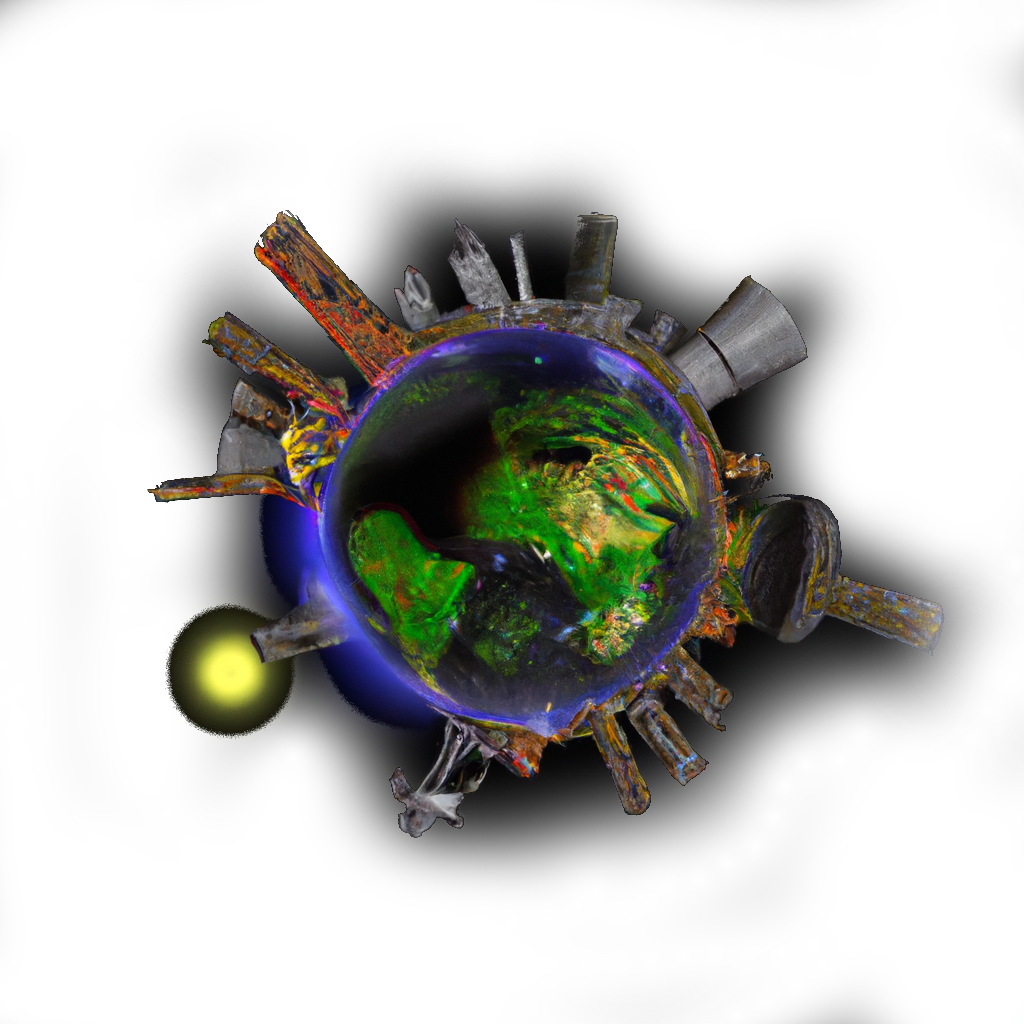
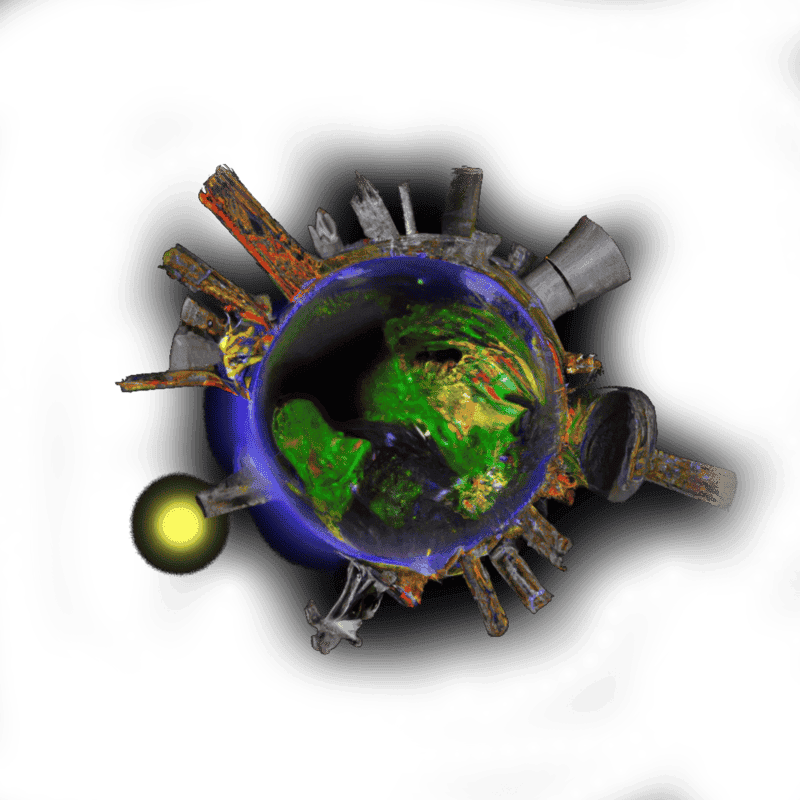
smaller images and loading indicator

diff --git a/planets/index.html b/planets/index.html
@@ -18,24 +18,42 @@
     .planets {
         height: 0%;
         position: absolute;
+        opacity: 0;
+    }
+
+    .loader {
+        border: 3px solid #333;
+        border-top: 3px solid lavender;
+        border-radius: 50%;
+        width: 50px;
+        height: 50px;
+        animation: spin 1s linear infinite;
+        position: absolute;
+    }
+
+    @keyframes spin {
+        0% { transform: rotate(0deg); }
+        100% { transform: rotate(360deg); }
     }
 
     @keyframes zoom {
         0% {
             transform: rotate(0deg);
+            opacity: 1;
         }
         60% {
-            opacity: 100%;
+            opacity: 1;
         }
         100% {
-            opacity: 0%;
+            opacity: 0;
             height: 300%;
             transform: rotate(50deg);
         }
     }
+
     a {
         color: lavender;
-    padding: 10px 10px;
+        padding: 10px 10px;
         font-size: 1.5rem;
     }
 </style>
@@ -44,6 +62,7 @@
 <p><a href="#" onclick="next()">next</a></p>
 <script src="../global.js"></script>
 <div class="planetContainer">
+    <div class="loader"></div>
     <img class="planets" src="img/roots.png">
     <img class="planets" src="img/mushrooms1.png">
     <img class="planets" src="img/trees1.png">
@@ -62,20 +81,29 @@
 </div>
 <script>
     const planets = document.getElementsByClassName("planets");
+    const loader = document.querySelector(".loader");
+    let loadedCount = 0;
 
     for (let i = 0; i < planets.length; i++) {
         const planet = planets[i];
         const delay = i * 0.2;
-        planet.addEventListener('load', function () {
-            console.log("loaded")
-        planet.style.animation = "zoom 3s ease-in"
-            planet.style.animationDelay = delay + "s";
-        })
+
+        for (let i = 0; i < planets.length; i++) {
+            const planet = planets[i];
+            const delay = i * 0.2;
+
+            planet.addEventListener('load', function () {
+                loadedCount++;
+                planet.style.animation = "zoom 3s ease-in";
+                planet.style.animationDelay = delay + "s";
+
+                if (loadedCount === planets.length) {
+                    loader.style.display = "none";
+                }
+            });
+        }
+
     }
-
-    document.body.addEventListener("click", function (){
-
-    })
 
 </script>
 </body>
